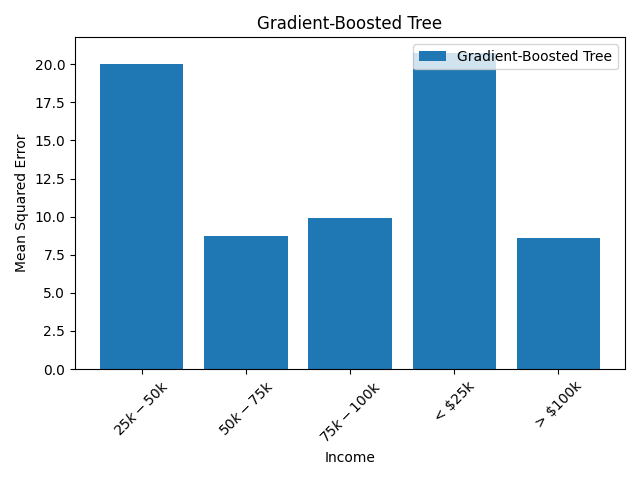
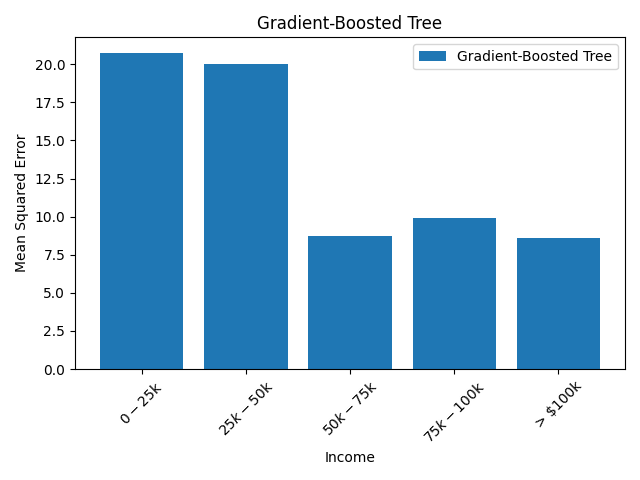
Finished Bias and Fairnedd

diff --git a/MSiA 431/03_hw/03_question/swain_03_question.py b/MSiA 431/03_hw/03_question/swain_03_question.py
@@ -196,7 +196,7 @@ mse_values = {}
 sensitive_features_binned = pd.cut(sensitive_features, bins=income_bins, labels=income_labels, right=False)
 
 # Train and evaluate the models
-with open('model_results.txt', 'w') as f:
+with open('model_results.txt', 'w') as f, open('bias_results.txt', 'w') as bias_f:
     for name, pipeline in [('Random Forest', pipeline_rf), ('Gradient-Boosted Tree', pipeline_gbt), ('Linear Regression', pipeline_lr)]:
         model = pipeline.fit(training_data)
         predictions = model.transform(test_data)
@@ -227,14 +227,14 @@ with open('model_results.txt', 'w') as f:
         plt.close()  # Close the plot to clear the figure for the next iteration
 
         # Overall metric
-        f.write(f"Overall fairness metrics for {name}:\n")
-        f.write(str(metric_frame.overall))
-        f.write("\n")
+        bias_f.write(f"Overall fairness metrics for {name}:\n")
+        bias_f.write(str(metric_frame.overall))
+        bias_f.write("\n")
 
         # Metric per-group
-        f.write(f"Binned per-group fairness metrics for {name}:\n")
-        f.write(str(sorted_group_metrics))  # Save sorted binned results instead of raw metrics
-        f.write("\n")
+        bias_f.write(f"Binned per-group fairness metrics for {name}:\n")
+        bias_f.write(str(sorted_group_metrics))  # Save sorted binned results instead of raw metrics
+        bias_f.write("\n")
 
         evaluator = RegressionEvaluator(labelCol="total_crimes", predictionCol="prediction")
         rmse = evaluator.setMetricName("rmse").evaluate(predictions)
